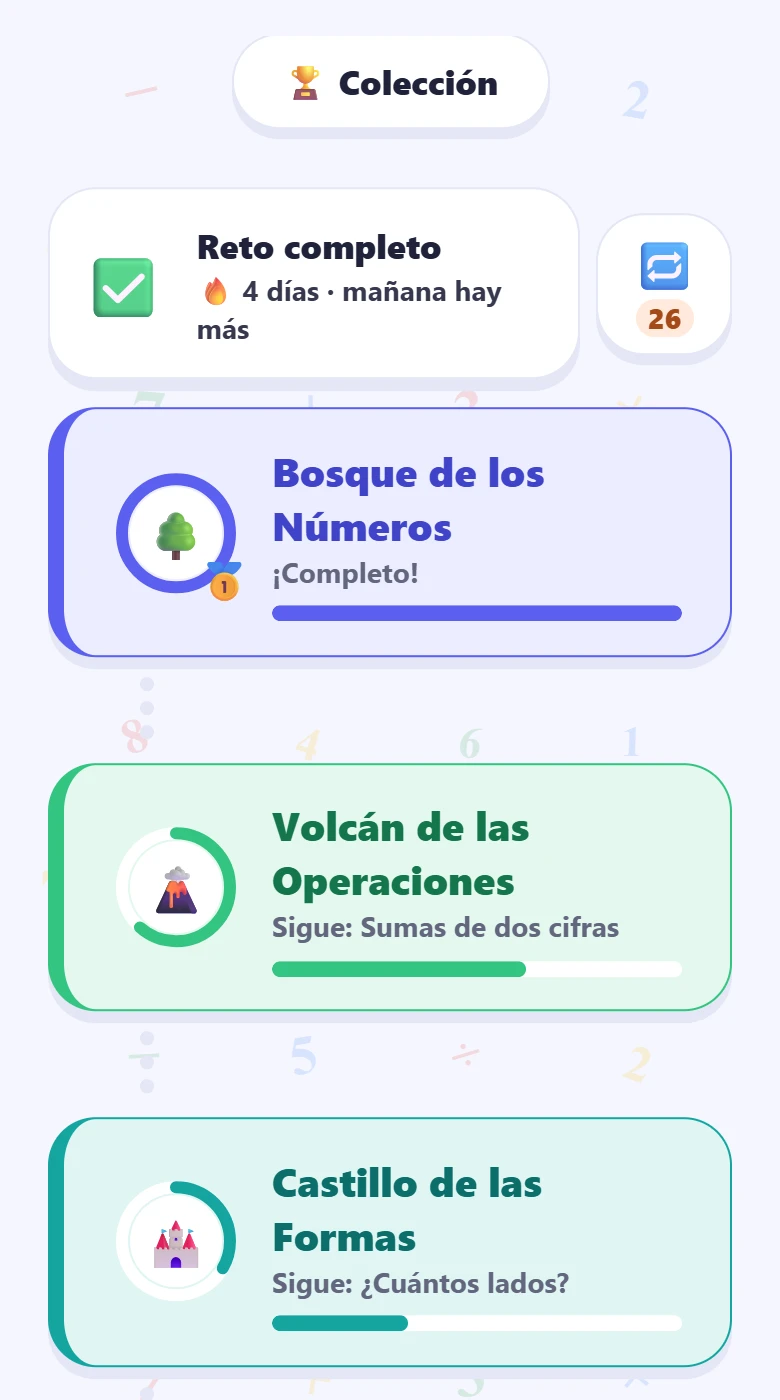
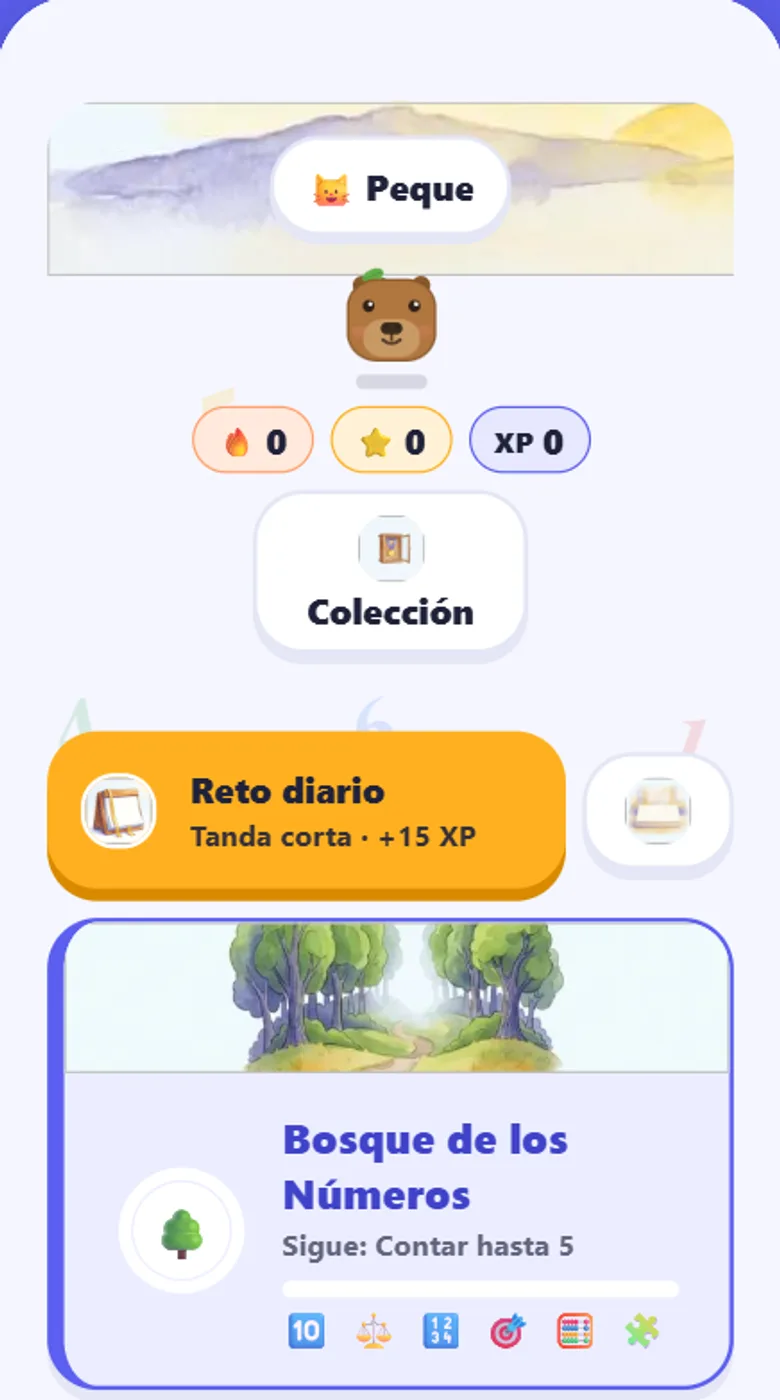
Las capturas de Matibu se ponen al dia con el rediseno, y el tesoro deja sitio a las ecuaciones
Las de la landing eran del 14-08 y la app cambio el 27-08. Tres estaban viejas,
comprobadas mirandolas y no por la fecha: la sala de juegos llevaba un EMOJI por
juego donde ahora hay tarjetas ilustradas, el mapa tenia tarjetas planas donde
ahora cada isla trae cabecera dibujada y barra de perfil, y la Zona de Papas
mostraba "47 lecciones terminadas" donde ahora van dias, estrellas, XP y
progreso por tema. Los pies que describian la pantalla vieja se corrigieron.

El tesoro sale y entra la explicacion de las ecuaciones. Es la misma decision
que ya se tomo para el trailer: la cuadricula de coordenadas ensena un juego, y
una explicacion con balanza ensena como ensena la app.

ej-hora NO se toco: parece vieja por la fecha pero es OTRA pantalla que
esc-hora.png, el ejercicio y no la explicacion. Distinto no es viejo. Y de
explica, ej-area, ej-grafico y ej-medir no hay captura nueva contra que
compararlas, asi que quedan sin verificar y se dice.

diff --git a/matibu/index.html b/matibu/index.html
@@ -177,12 +177,12 @@
         <figcaption><strong>Trece juegos</strong> para practicar sin que parezca tarea.</figcaption>
       </figure>
       <figure data-rise>
-        <div class="tel"><img src="tesoro.webp" alt="El juego de buscar el tesoro en la cuadrícula de coordenadas" width="780" height="1400" loading="lazy"></div>
-        <figcaption>Buscar el tesoro: <strong>coordenadas</strong>, y hay que deducirlas.</figcaption>
+        <div class="tel"><img src="ecuaciones.webp" alt="La explicación de las ecuaciones, con una balanza en equilibrio" width="780" height="1400" loading="lazy"></div>
+        <figcaption>Las ecuaciones se explican con una <strong>balanza</strong>, antes de despejar nada.</figcaption>
       </figure>
       <figure data-rise>
-        <div class="tel"><img src="papas.webp" alt="La Zona de Papás con el resumen de lo que ya sabe el niño" width="780" height="1400" loading="lazy"></div>
-        <figcaption>La <strong>Zona de Papás</strong>: qué domina y cuánto practica.</figcaption>
+        <div class="tel"><img src="papas.webp" alt="La Zona de Papás con la racha, los logros y el tiempo de práctica" width="780" height="1400" loading="lazy"></div>
+        <figcaption>La <strong>Zona de Papás</strong>: constancia, tiempo y progreso por tema.</figcaption>
       </figure>
       <figure data-rise>
         <div class="tel"><img src="explica.webp" alt="Matibu explicando una división después de un error" width="780" height="1400" loading="lazy"></div>
